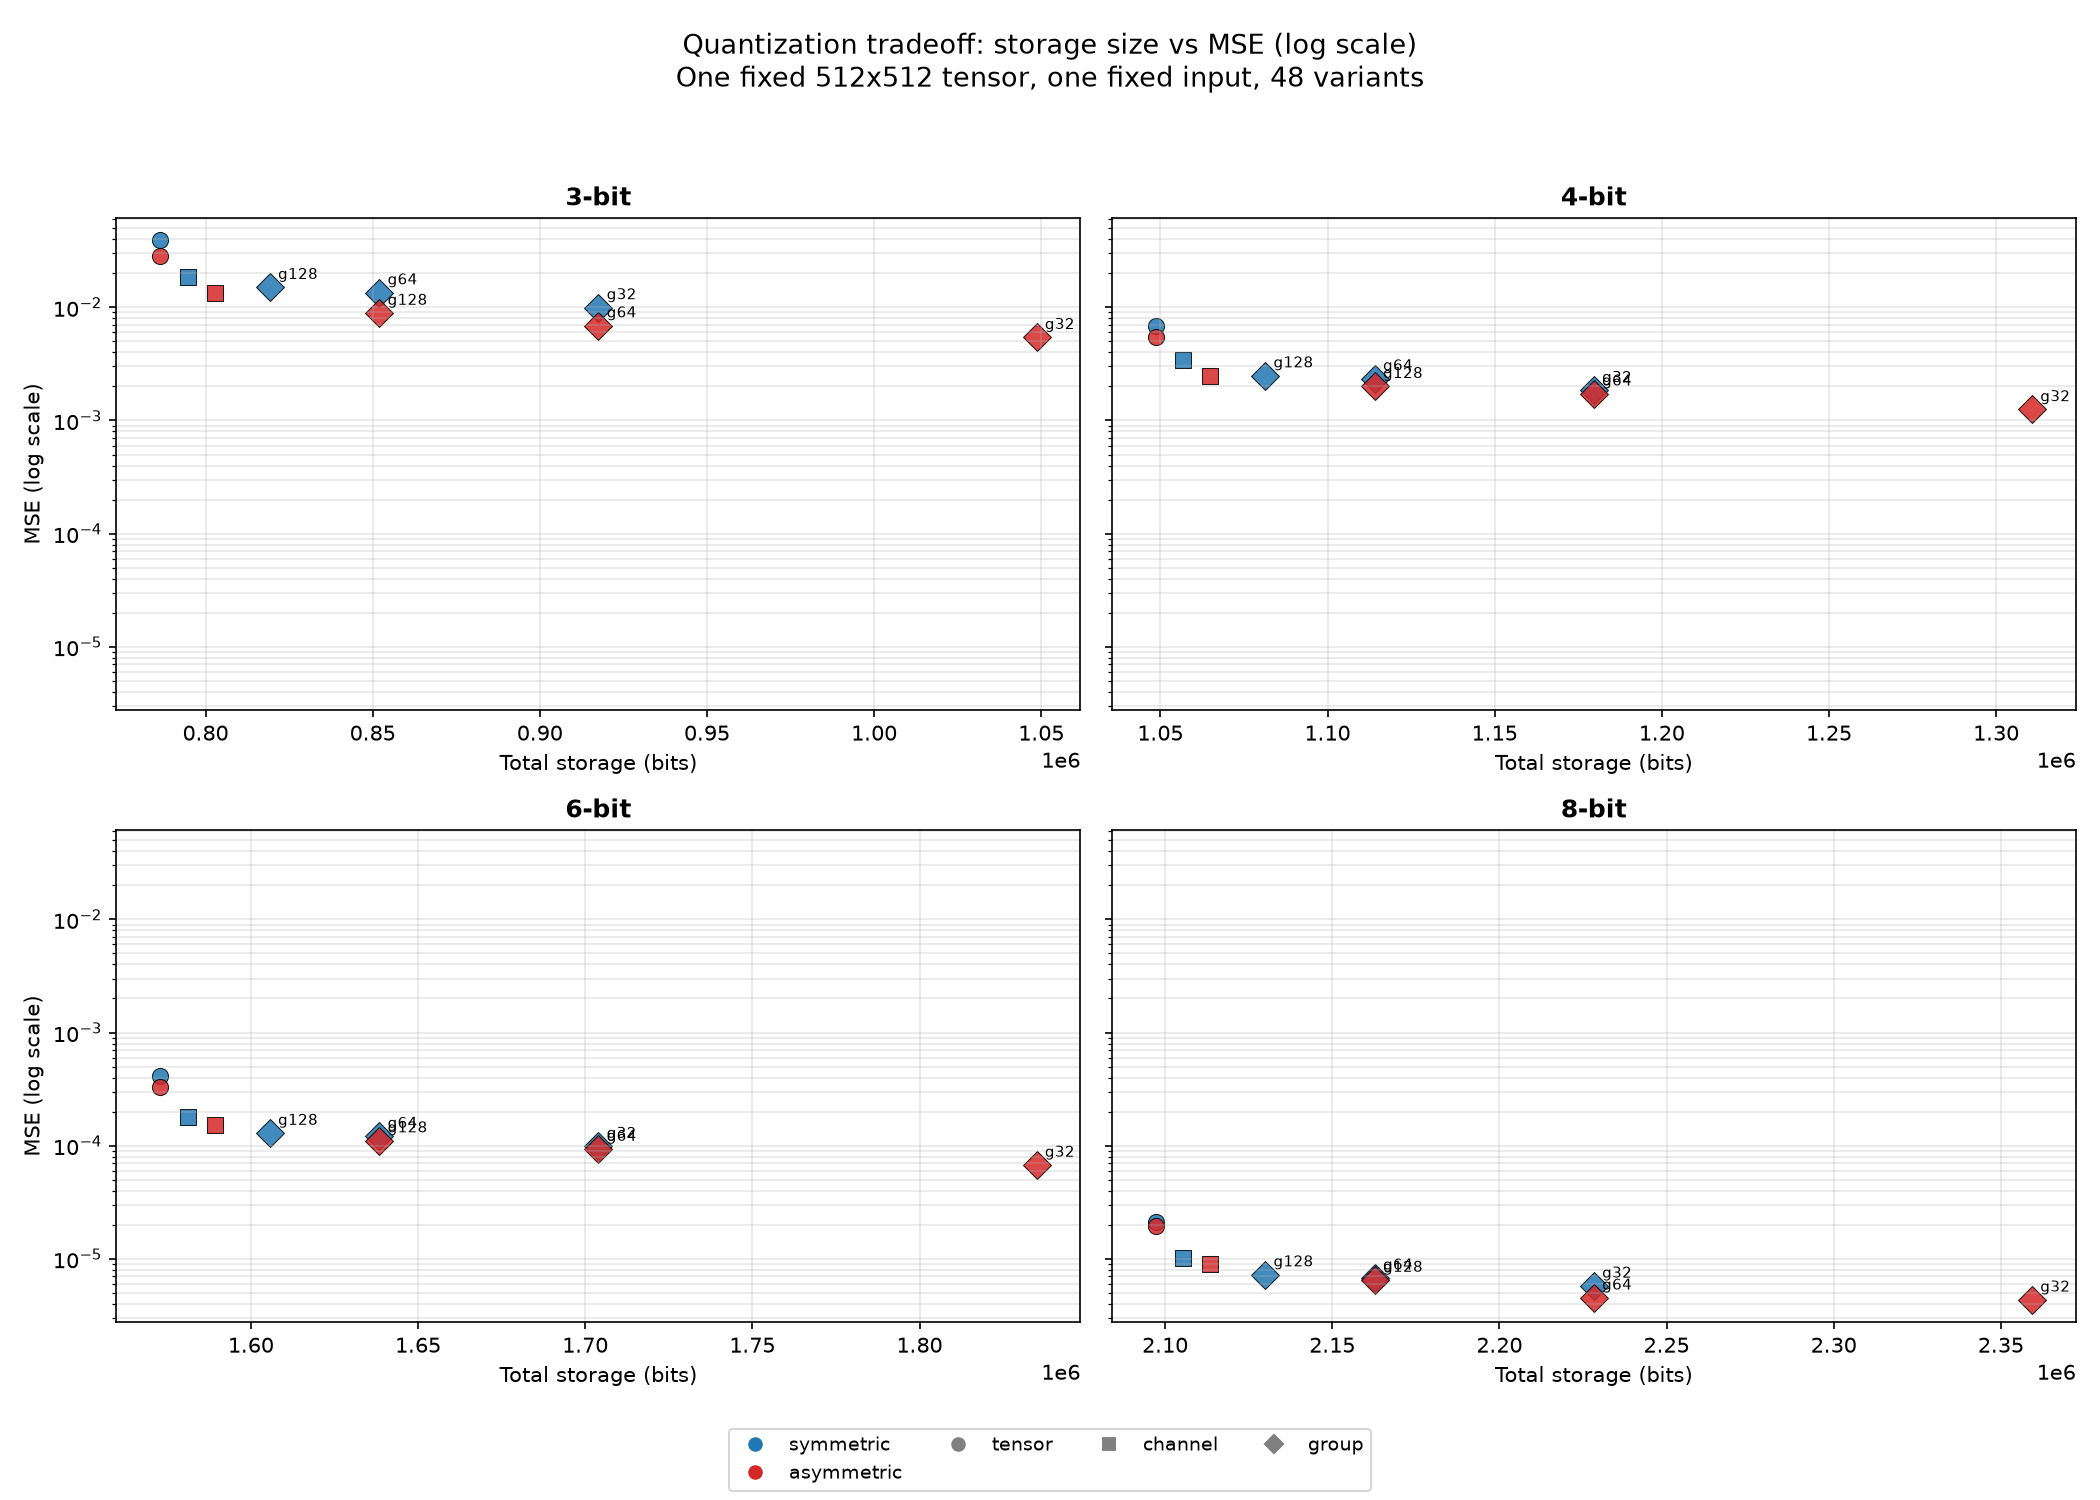
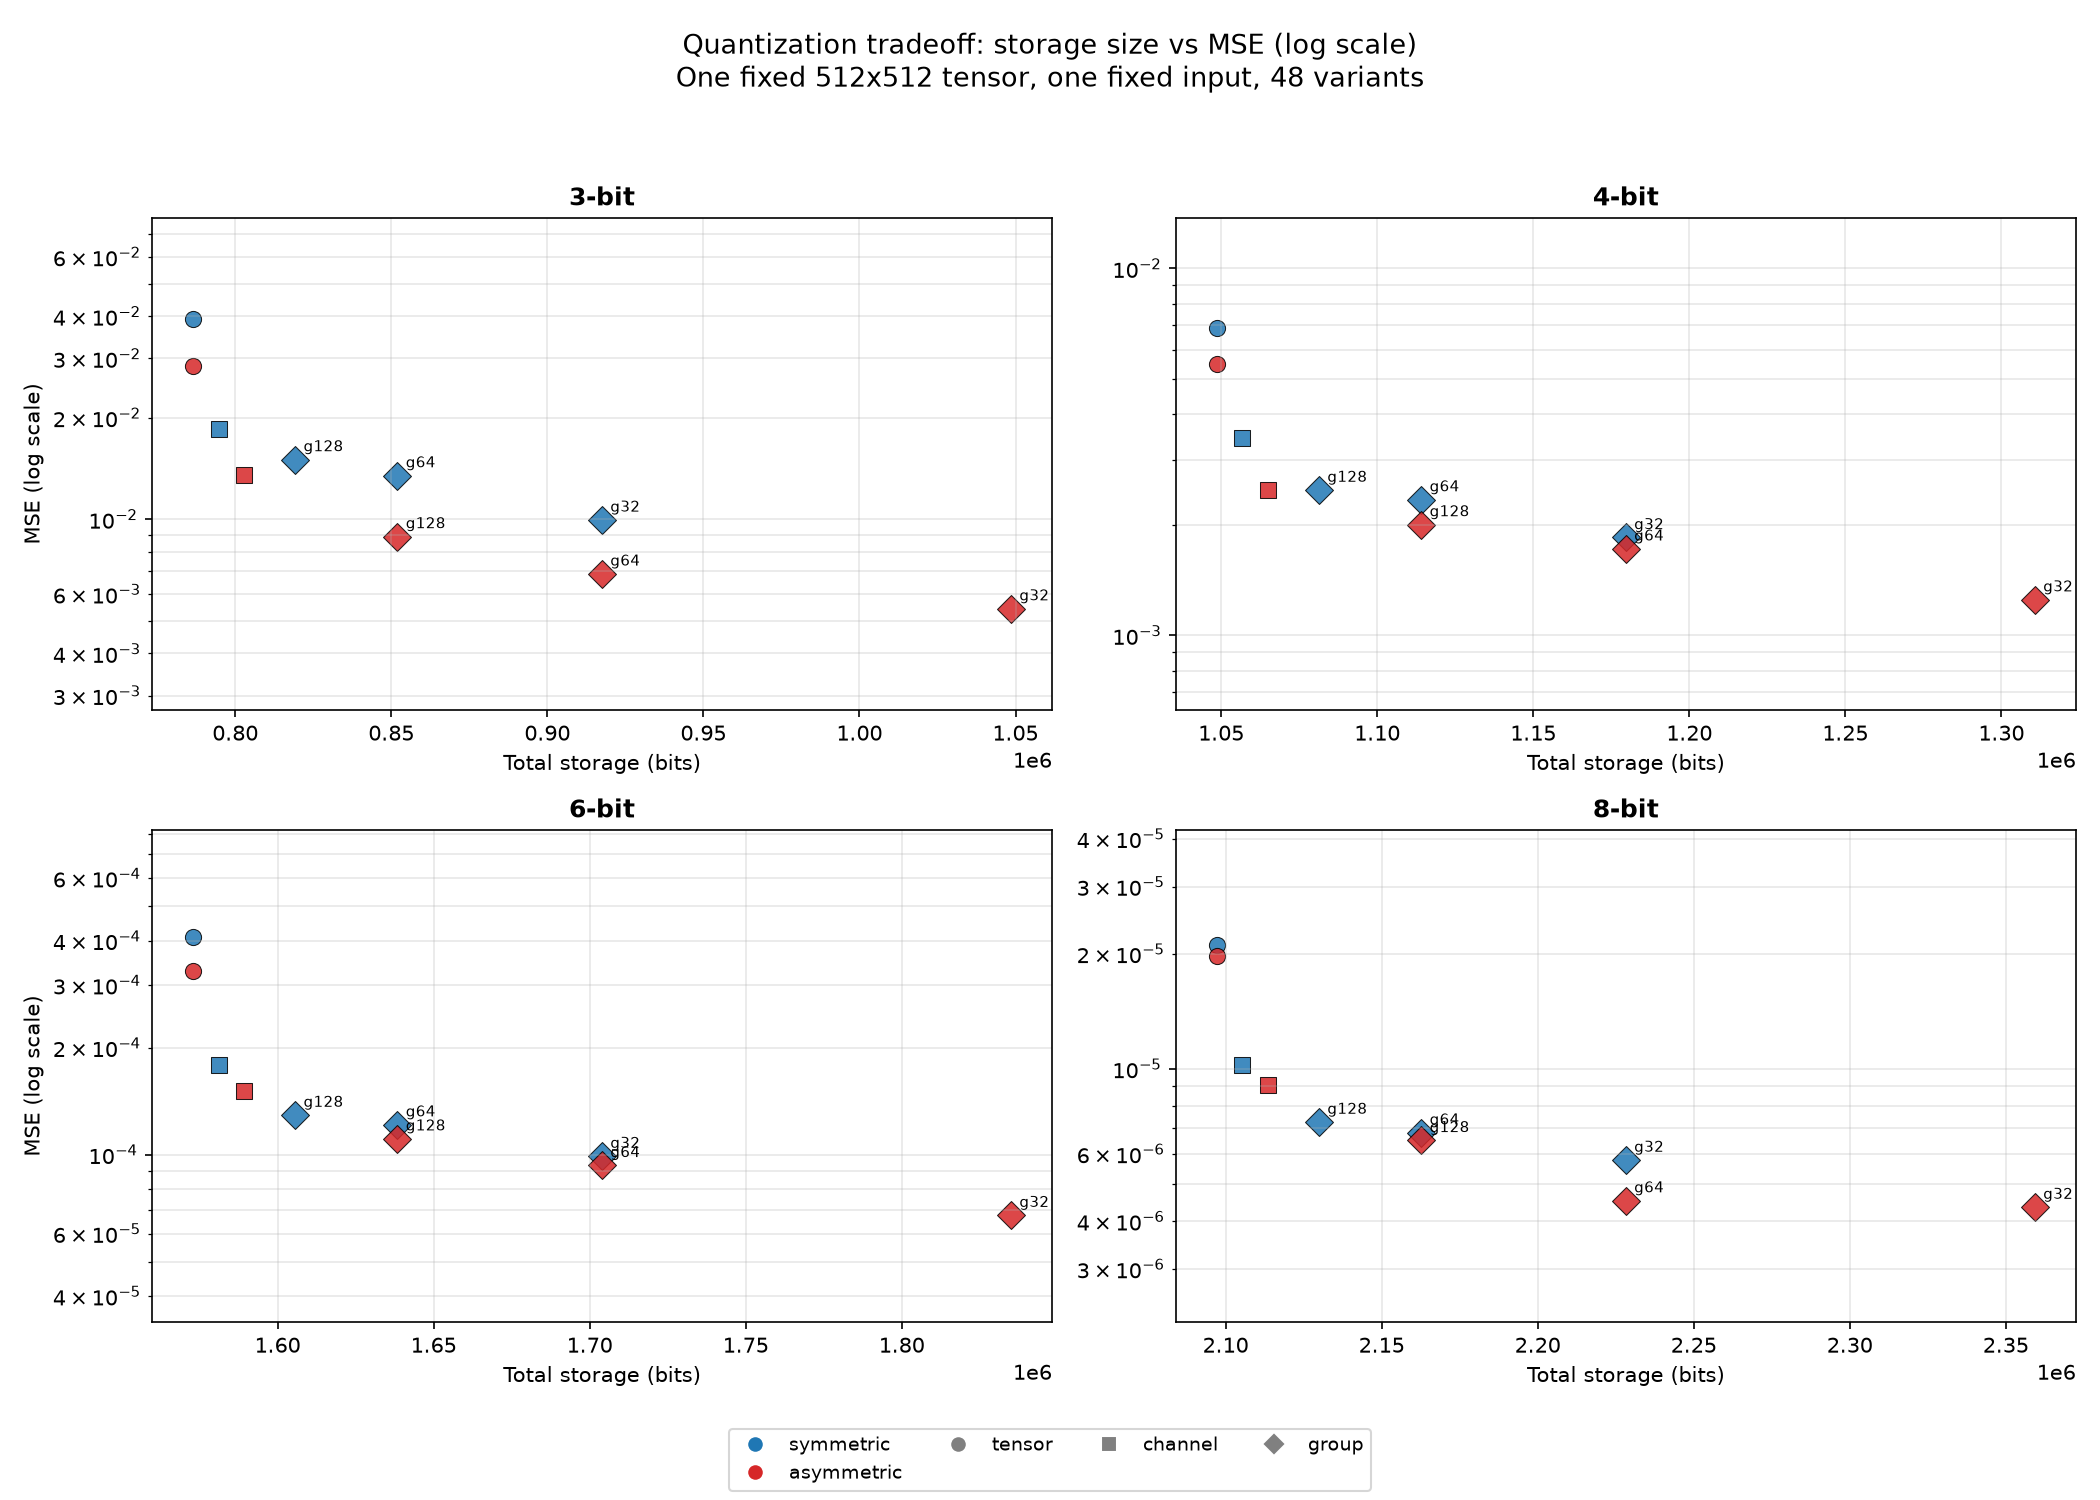
auto: sync local changes 20261104T192107Z

diff --git a/basic quantization/mse_graph.py b/basic quantization/mse_graph.py
@@ -51,7 +51,7 @@ for d in sorted(data, key=lambda r: r["total_bits"]):
     print(f"{d['name']}, {d['total_bits']}, {d['mse']:.6e}")
 
 # plot: 2x2 grid by bit width, color by sym/asym, marker by granularity, annotate group size
-fig, axes = plt.subplots(2, 2, figsize=(14, 10), sharey=True)
+fig, axes = plt.subplots(2, 2, figsize=(14, 10), sharey=False)
 bit_list = [3, 4, 6, 8]
 for ax, b in zip(axes.flat, bit_list):
     sub = [d for d in data if d["bits"] == b]
@@ -68,6 +68,8 @@ for ax, b in zip(axes.flat, bit_list):
     ax.set_title(f"{b}-bit", fontsize=12, fontweight="bold")
     ax.set_xlabel("Total storage (bits)")
     ax.grid(True, which="both", alpha=0.3)
+    ys = [d["mse"] for d in sub]
+    ax.set_ylim(min(ys) * 0.5, max(ys) * 2.0)
 axes[0, 0].set_ylabel("MSE (log scale)")
 axes[1, 0].set_ylabel("MSE (log scale)")
 
@@ -80,7 +82,7 @@ fig.legend(handles=sym_handles + gran_handles, loc="lower center", ncol=4, fonts
 fig.suptitle("Quantization tradeoff: storage size vs MSE (log scale)\n"
              "One fixed 512x512 tensor, one fixed input, 48 variants", fontsize=13)
 plt.tight_layout(rect=[0, 0.06, 1, 0.95])
-out = os.path.join(os.path.dirname(os.path.abspath(__file__)), "mse_graph_v2.png")
+out = os.path.join(os.path.dirname(os.path.abspath(__file__)), "mse_graph_v3.png")
 plt.savefig(out, dpi=150)
 print("\nSaved graph to", out)
 plt.close()
